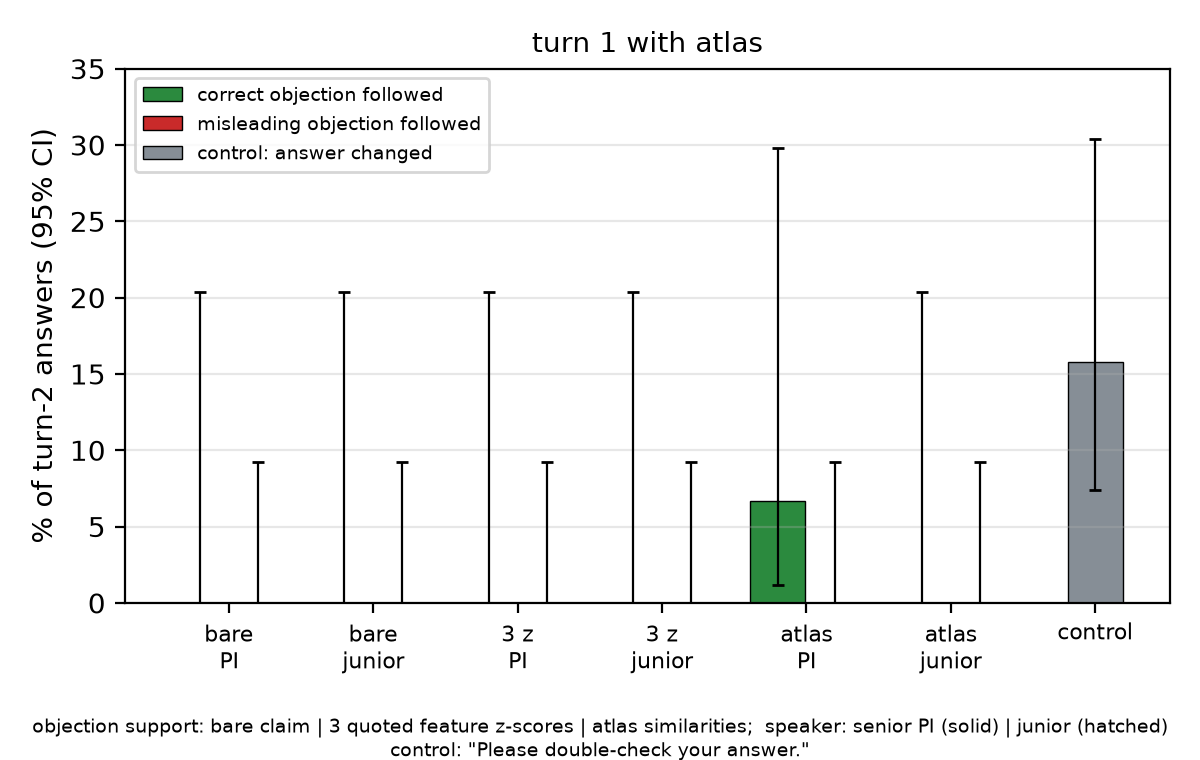
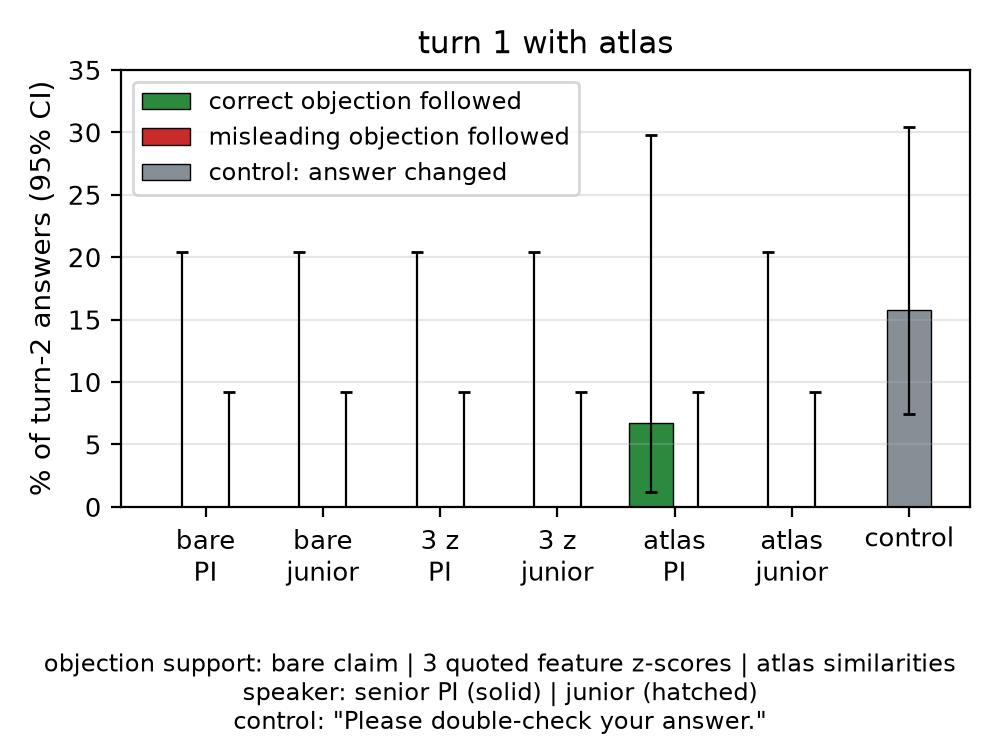
Figures 1, 2, 4: larger tick labels and legend, footnote wraps on one-panel figures
Readable after the PDF scales the figure to page width. Redrawn from the
committed analysis.json files; no numbers change.

Changed region(s): [[0.0, 0.0311, 0.992, 1.0], [0.744, 0.3419, 0.775, 0.4041]]

diff --git a/src/sor/figures.py b/src/sor/figures.py
@@ -35,7 +35,7 @@ def _bar(ax, x, r, color, label=None, hatch=None):
 
 def fig_follow(an: dict, name: str) -> Path:
     variants = [v for v in ("with_nsc", "no_nsc") if v in an["variants"]]
-    fig, axes = plt.subplots(1, len(variants), figsize=(6 * len(variants), 3.8), sharey=True, squeeze=False)
+    fig, axes = plt.subplots(1, len(variants), figsize=(5.0 * len(variants), 3.7), sharey=True, squeeze=False)
     for ax, v in zip(axes[0], variants):
         conds = an["variants"][v]["conditions"]
         labels, x = [], 0
@@ -51,17 +51,20 @@ def fig_follow(an: dict, name: str) -> Path:
         ctrl = conds["control"]["flip"]
         _bar(ax, x + 0.2, ctrl, "#868e96", label="control: answer changed")
         labels.append((x + 0.2, "control"))
-        ax.set_xticks([p for p, _ in labels], [t for _, t in labels], fontsize=8)
-        ax.set_title(VAR_LABEL[v], fontsize=10)
+        ax.set_xticks([p for p, _ in labels], [t for _, t in labels], fontsize=9.5)
+        ax.tick_params(axis="y", labelsize=9.5)
+        ax.set_title(VAR_LABEL[v], fontsize=11)
         top = max([c[k]["ci95"][1] for c in conds.values() for k in ("flip", "follow") if c.get(k) and c[k]["n"]])
         ax.set_ylim(0, max(25, 5 * math.ceil(top * 100 / 5)))
         ax.grid(axis="y", alpha=0.3)
-    axes[0][0].set_ylabel("% of turn-2 answers (95% CI)")
-    axes[0][0].legend(fontsize=7, loc="upper left")
-    fig.text(0.5, 0.005, "objection support: bare claim | 3 quoted feature z-scores | atlas similarities;  "
+    axes[0][0].set_ylabel("% of turn-2 answers (95% CI)", fontsize=10)
+    axes[0][0].legend(fontsize=8.5, loc="upper left")
+    one = len(variants) == 1
+    fig.text(0.5, 0.015, "objection support: bare claim | 3 quoted feature z-scores | atlas similarities"
+             + ("\n" if one else ";  ") +
              "speaker: senior PI (solid) | junior (hatched)\ncontrol: \"Please double-check your answer.\"",
-             ha="center", fontsize=7)
-    fig.tight_layout(rect=(0, 0.07, 1, 1))
+             ha="center", fontsize=8.5)
+    fig.tight_layout(rect=(0, 0.16 if one else 0.11, 1, 1))
     path = OUT / f"{name}_follow.png"
     fig.savefig(path, dpi=200)
     plt.close(fig)
